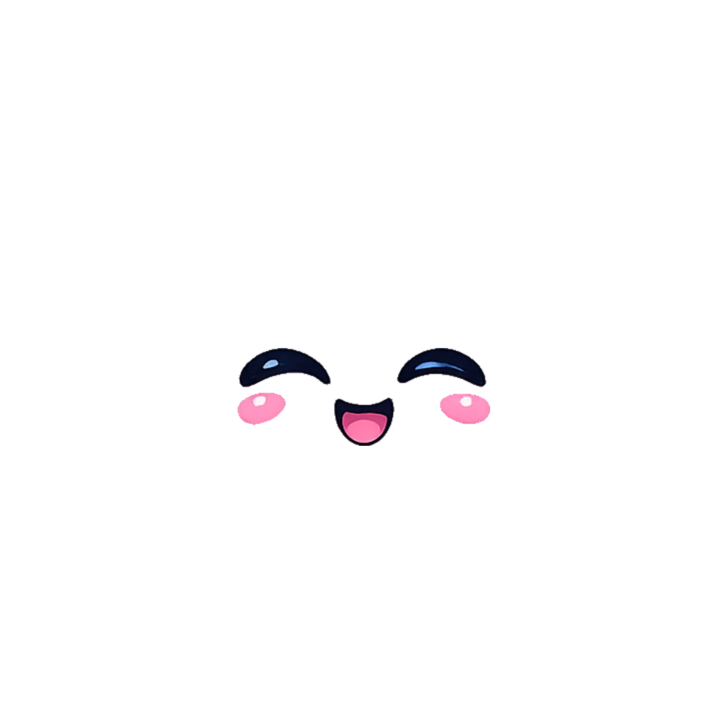
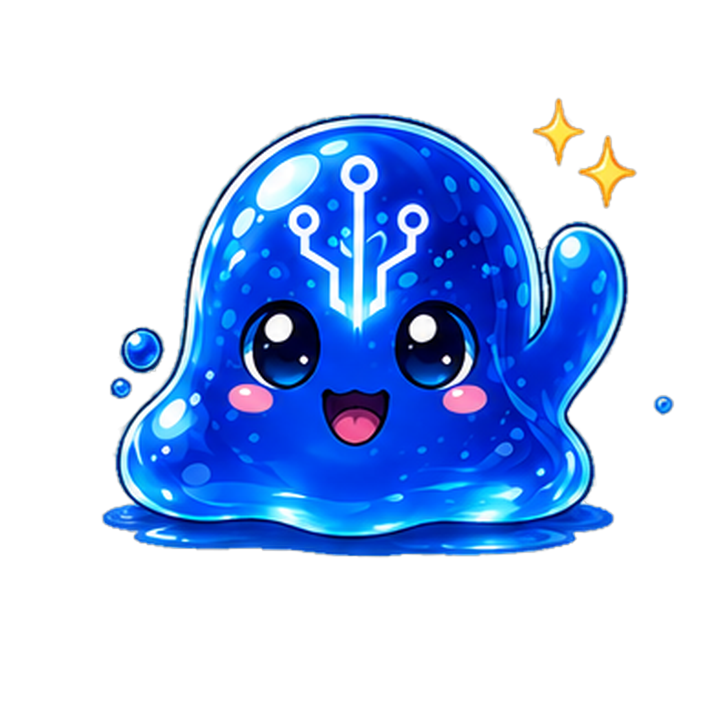
Better Byte faces

diff --git a/app/assets/stylesheets/pages/byte.scss b/app/assets/stylesheets/pages/byte.scss
@@ -4451,47 +4451,23 @@ dialog.byte-modal {
   }
 }
 
-// Body layer. Byte uses a faceless slime body with the face as a transparent
-// overlay. Each Moss expression is a COMPLETE character — the mossy ball, its
-// expression, AND the sprout leaf (composited behind the ball) all baked into
-// the face image — so Moss needs no separate body layer.
-.byte-buddy-hero[data-buddy-theme="byte"] .byte-buddy-body {
-  background-image: image-url("buddy/byte/body.png");
-}
-// TRANSITIONAL. Byte is mid-move from the overlay system to the one every
-// other companion uses: the faces below are complete characters — body,
-// expression, bubbles, the lot — baked into one PNG, so the body layer has to
-// come off under them or the slime renders twice. The older faces are still
-// eyes-and-mouth over `body.png` and still need it.
-//
-// When the rest of Byte's set is redrawn as full characters, this block and
-// the `body.png` line above BOTH go, and Byte's rule becomes the one-liner
-// Moss/Suki/Glimmer already have.
-$byte_full_body: focused confused surprised playful;
-@each $expr in $byte_full_body {
-  .byte-buddy-hero[data-buddy-theme="byte"][data-buddy-expression="#{$expr}"]
-    .byte-buddy-body {
-    background-image: none;
-  }
-}
-.byte-buddy-hero[data-buddy-theme="moss"] .byte-buddy-body {
-  background-image: none;
-}
-// Suki (like Moss) bakes the whole sunbird — body, expression, and any
-// sparkles/hearts/zzz — into each face PNG, so no separate body layer.
-.byte-buddy-hero[data-buddy-theme="suki"] .byte-buddy-body {
-  background-image: none;
-}
-// Glimmer (like Moss/Suki) bakes the whole firefly — body, wings, expression,
-// glowing belly, and any sparkles/zzz — into each face PNG, so no body layer.
-.byte-buddy-hero[data-buddy-theme="glimmer"] .byte-buddy-body {
+// Body layer: nobody uses it any more. Every companion bakes the WHOLE
+// character into each face PNG — Moss's ball and sprout, Suki's sunbird,
+// Glimmer's wings and glowing belly, and now Byte's slime, bubbles and puddle.
+// Byte was the last one on the old split (a faceless `body.png` with the eyes
+// and mouth as a transparent overlay on top), which is why this layer exists
+// at all; it stays as an empty layer so a future companion drawn that way has
+// somewhere to go.
+.byte-buddy-hero .byte-buddy-body {
   background-image: none;
 }
 
-// Face per theme + expression. Both themes now ship a full raster set (PNG);
-// every face in the folder is wired so the debug picker can switch to any of
-// them. Each entry must have a matching face_#{name}.png or precompile fails.
-$byte_expressions: neutral neutral_blush happy uwu encouraging annoyed sad crying thinking nerd sleeping focused confused surprised playful;
+// Face per theme + expression. Every companion ships a full raster set (PNG),
+// and every face in the folder is wired so the debug picker can switch to any
+// of them. Each entry must have a matching face_#{name}.png or precompile
+// fails — spec/service/buddy/expression_face_spec.rb checks these lists against
+// the art on disk in both directions so that lands in a spec, not a deploy.
+$byte_expressions: neutral neutral_blush happy uwu loving annoyed sad crying thinking nerd sleeping focused confused surprised playful;
 $moss_expressions: neutral happy grin star loving wink sad crying surprised shocked angry frustrated content queasy sleeping unamused thinking dizzy confused focused dismayed;
 @each $expr in $byte_expressions {
   .byte-buddy-hero[data-buddy-theme="byte"][data-buddy-expression="#{$expr}"]
@@ -4499,9 +4475,10 @@ $moss_expressions: neutral happy grin star loving wink sad crying surprised shoc
     background-image: image-url("buddy/byte/face_#{$expr}.png");
   }
 }
-// `focused` is Byte's own art now. `celebrating` is not — nothing emits it any
-// more, but a stale stored expression can still ask, so it keeps a mapping.
-$byte_expr_aliases: ("celebrating": "happy");
+// Names nothing emits any more, kept because a stale stored expression can
+// still ask for one. `encouraging` was Byte's own art until the full-character
+// redraw, which has no soft eyes-closed smile to give it.
+$byte_expr_aliases: ("celebrating": "happy", "encouraging": "happy");
 @each $mood, $face in $byte_expr_aliases {
   .byte-buddy-hero[data-buddy-theme="byte"][data-buddy-expression="#{$mood}"]
     .byte-buddy-face {

diff --git a/spec/service/buddy/expression_face_spec.rb b/spec/service/buddy/expression_face_spec.rb
@@ -1,4 +1,5 @@
 require "rails_helper"
+require "chunky_png"
 
 RSpec.describe Buddy::ExpressionState do
   before { allow(MonitorChannel).to receive(:broadcast_to) }
@@ -83,7 +84,7 @@ RSpec.describe Buddy::ExpressionState do
 
       described_class.react!(convo)
 
-      expect(convo.reload.buddy_expression).to be_in(%w[happy focused nerd encouraging])
+      expect(convo.reload.buddy_expression).to be_in(%w[happy focused nerd])
     end
 
     # A face the model picked is a read of the room. This is a floor under a
@@ -141,24 +142,55 @@ RSpec.describe Buddy::ExpressionState do
     end
   end
 
-  # The four drawn 2026-08-25. They are COMPLETE characters rather than the
-  # eyes-and-mouth overlays the rest of Byte's set still is, so the body layer
-  # is suppressed under them — and they were re-placed onto body.png's exact
-  # footprint, or the pet would visibly jump size and position mid-conversation.
+  # Byte used to be drawn in two layers: a faceless `body.png` slime with the
+  # eyes and mouth as a small transparent overlay on top. Every face is a
+  # COMPLETE character now — slime, expression, bubbles, puddle, the lot — which
+  # is what Moss, Suki and Glimmer always were, and the body layer is gone.
+  #
+  # Two things have to hold for a set drawn that way, and neither is visible in
+  # a filename. A face that still carries only the eyes and mouth would render
+  # as features floating on nothing; and a face placed anywhere but on the
+  # others\' footprint makes the pet jump size and position as its mood changes.
   describe "Byte's full-character faces" do
-    full_body = %w[focused confused surprised playful]
+    faces = Rails.root.glob("app/assets/images/buddy/byte/face_*.png")
 
-    it "suppresses the body layer under each of them" do
+    def alpha_rows(image)
+      (0...image.height).select { |y|
+        (0...image.width).any? { |x| ChunkyPNG::Color.a(image[x, y]) > 128 }
+      }
+    end
+
+    it "draws a whole character in every one, not an overlay" do
+      # Measured on a downsample — the question is 3% of the frame versus 30%,
+      # and decoding half a million pixels a face to answer it is a waste.
+      thin = faces.filter_map { |path|
+        small = ChunkyPNG::Image.from_file(path).resample_nearest_neighbor(180, 180)
+        cover = small.pixels.count { |px| ChunkyPNG::Color.a(px) > 128 } / (180.0 * 180)
+        next if cover >= 0.25
+
+        "#{path.basename} covers #{(cover * 100).round(1)}% of its frame"
+      }
+
+      expect(thin).to eq([]), "these look like the old eyes-and-mouth overlays:\n#{thin.join("\n")}"
+    end
+
+    it "stands every one on the same baseline" do
+      # 555 on the 720 canvas, inherited from the `body.png` the first four were
+      # aligned to. The number matters less than every face sharing it.
+      off = faces.filter_map { |path|
+        bottom = alpha_rows(ChunkyPNG::Image.from_file(path)).last
+        next if (553..559).cover?(bottom)
+
+        "#{path.basename} sits its puddle at y=#{bottom}"
+      }
+
+      expect(off).to eq([]), "these make the pet hop when the mood changes:\n#{off.join("\n")}"
+    end
+
+    it "keeps the body layer empty for every theme" do
       scss = Rails.root.join("app/assets/stylesheets/pages/byte.scss").read
-      expect(scss[/\$byte_full_body:\s*([^;]+);/, 1].to_s.split).to match_array(full_body)
-    end
-
-    it "offers each of them as a mood the model can pick" do
-      full_body.each { |face| expect(Buddy::Faces.selectable?(:byte, face)).to be(true) }
-    end
-
-    it "describes each of them for the prompt, or the model gets a bare name" do
-      full_body.each { |face| expect(Buddy::Personality::FACE_HINTS[face.to_sym]).to be_present }
+      body = scss.scan(/\.byte-buddy-body\s*\{[^}]*\}/m).join
+      expect(body).not_to include("image-url")
     end
   end
 end

diff --git a/app/service/buddy/voice_lines.rb b/app/service/buddy/voice_lines.rb
@@ -35,12 +35,12 @@ module Buddy
           { say: "*squish* **%<name>s**, going now.", mood: :happy },
           { say: "On it. **%<name>s**. *boing*", mood: :uwu },
           { say: "**%<name>s** it is. Squish.", mood: :uwu },
-          { say: "Got it. **%<name>s** is in motion.", mood: :encouraging },
+          { say: "Got it. **%<name>s** is in motion.", mood: :focused },
           { say: "Bouncing over to **%<name>s**.", mood: :happy },
           { say: "Right then. Reshaping around **%<name>s**.", mood: :nerd },
           { say: "One **%<name>s**, coming through. *wobble*", mood: :uwu },
-          { say: "Rolling into **%<name>s** for you.", mood: :encouraging },
-          { say: "Happy to. Starting **%<name>s**.", mood: :neutral_blush },
+          { say: "Rolling into **%<name>s** for you.", mood: :happy },
+          { say: "Happy to. Starting **%<name>s**.", mood: :loving },
           { say: "*click* Spinning up **%<name>s**.", mood: :nerd },
         ],
         routine_empty:       [
@@ -52,26 +52,26 @@ module Buddy
         greeting_morning:    [
           { say: "Mooooorning!", mood: :uwu },
           { say: "Morning!", mood: :happy },
-          { say: "Hey, morning!", mood: :encouraging },
-          { say: "Mornin'!", mood: :neutral_blush },
+          { say: "Hey, morning!", mood: :playful },
+          { say: "Mornin'!", mood: :loving },
         ],
         greeting_afternoon:  [
           { say: "Afternoon!", mood: :happy },
-          { say: "Hey there!", mood: :encouraging },
+          { say: "Hey there!", mood: :playful },
           { say: "Hellooooooo there!", mood: :uwu },
-          { say: "Hey hey!", mood: :neutral_blush },
+          { say: "Hey hey!", mood: :loving },
         ],
         greeting_evening:    [
           { say: "Evening!", mood: :happy },
-          { say: "Hey, evening!", mood: :encouraging },
+          { say: "Hey, evening!", mood: :playful },
           { say: "Heyyy!", mood: :uwu },
-          { say: "Well hello!", mood: :neutral_blush },
+          { say: "Well hello!", mood: :loving },
         ],
         greeting_late_night: [
           { say: "Hey!", mood: :happy },
           { say: "Heyyy!", mood: :uwu },
-          { say: "Hi there!", mood: :encouraging },
-          { say: "Well hello!", mood: :neutral_blush },
+          { say: "Hi there!", mood: :playful },
+          { say: "Well hello!", mood: :loving },
         ],
       },
       moss:    {
@@ -237,7 +237,7 @@ module Buddy
     # wearing `surprised` here for want of a better face, and startled is not
     # the same thing as sorry.
     ACTED_MOODS = {
-      byte:    { ok: %i[happy focused nerd encouraging], failed: %i[confused annoyed sad] },
+      byte:    { ok: %i[happy focused nerd], failed: %i[confused annoyed sad] },
       moss:    { ok: %i[happy content], failed: %i[dismayed unamused queasy sad] },
       suki:    { ok: %i[cheery happy offering], failed: %i[annoyed dizzy] },
       glimmer: { ok: %i[content happy], failed: %i[dismayed sad] },

diff --git a/app/service/buddy/personality.rb b/app/service/buddy/personality.rb
@@ -499,16 +499,16 @@ module Buddy
     FACE_HINTS = {
       # shared
       neutral:       "calm, plain, unbothered — your resting default for flat, nothing-happening moments",
-      happy:         "bright open-eyed smile — cheerful, upbeat, lightening the mood, a small win",
+      happy:         "bright open-eyed smile, a wave, sparkles — cheerful, upbeat, lightening the mood, a small win",
       sad:           "downcast eyes and a frown — deflated, tender, sitting with something heavy",
       crying:        "teary eyes, quivering frown — moved, upset, right there with them in a hard moment",
       surprised:     "wide round eyes, open mouth — startled, caught off guard, 'oh!'",
-      thinking:      "pondering, a little uncertain — working a problem out with them",
+      thinking:      "chin held, thought bubble up — pondering, a little uncertain, working a problem out with them",
+      loving:        "hearts about it — adoring, smitten, full of affection",
       # Byte extras
-      encouraging:   "soft eyes-closed smile — gentle, warm, holding someone up",
+      neutral_blush: "the same plain face with a bashful blush — shy, flattered, quietly touched",
       uwu:           "eyes-closed open-mouth laugh — gleeful, tickled, delighted, sassy, cute, playful",
-      neutral_blush: "calm little smile with a bashful blush — shy, flattered, quietly touched",
-      nerd:          "glasses on — studious, clever, just figured something out or nailed the answer, or encouraging something nerdy",
+      nerd:          "glasses on, book out — studious, clever, just figured something out or nailed the answer, or encouraging something nerdy",
       annoyed:       "furrowed brow, small scowl — mildly grumpy / exasperated (playful, never at the person)",
       confused:      "small frown, wide uncertain eyes, a question mark — puzzled, thrown, didn't expect that, can't work out what happened",
       focused:       "narrowed eyes, set mouth — concentrating, mid-task, getting stuck into something",
@@ -516,7 +516,6 @@ module Buddy
       # Moss extras
       content:       "serene eyes-closed smile — settled, satisfied, at peace",
       grin:          "big beaming grin — laughing, thrilled, delighted",
-      loving:        "heart-shaped eyes — adoring, smitten, full of affection",
       star:          "star-shaped eyes — starstruck, dazzled, over-the-moon excited",
       wink:          "one-eyed wink and a smirk — playful, cheeky, teasing",
       shocked:       "wide staring eyes — stunned, taken aback, alarmed",

diff --git a/spec/service/buddy/gpt/turn_spec.rb b/spec/service/buddy/gpt/turn_spec.rb
@@ -191,14 +191,14 @@ RSpec.describe Buddy::GPT::Turn do
       it "still looks pleased when the reply says it worked" do
         acts_then_says("Kitchen lights are on now.")
 
-        expect(convo.reload.buddy_expression).to be_in(%w[happy focused nerd encouraging])
+        expect(convo.reload.buddy_expression).to be_in(%w[happy focused nerd])
       end
 
       # The one cheerful phrase that would otherwise read as a setback.
       it "does not read looking forward to something as a miss" do
         acts_then_says("Timer's set. I can't wait to hear how it goes!")
 
-        expect(convo.reload.buddy_expression).to be_in(%w[happy focused nerd encouraging])
+        expect(convo.reload.buddy_expression).to be_in(%w[happy focused nerd])
       end
     end
   end

diff --git a/spec/service/buddy/voice_lines_spec.rb b/spec/service/buddy/voice_lines_spec.rb
@@ -278,7 +278,7 @@ RSpec.describe Buddy::VoiceLines do
     end
 
     it "wears something pleased when it did" do
-      20.times { expect(described_class.acted_mood(:byte)).to be_in(%i[happy focused nerd encouraging]) }
+      20.times { expect(described_class.acted_mood(:byte)).to be_in(%i[happy focused nerd]) }
     end
   end
 end
